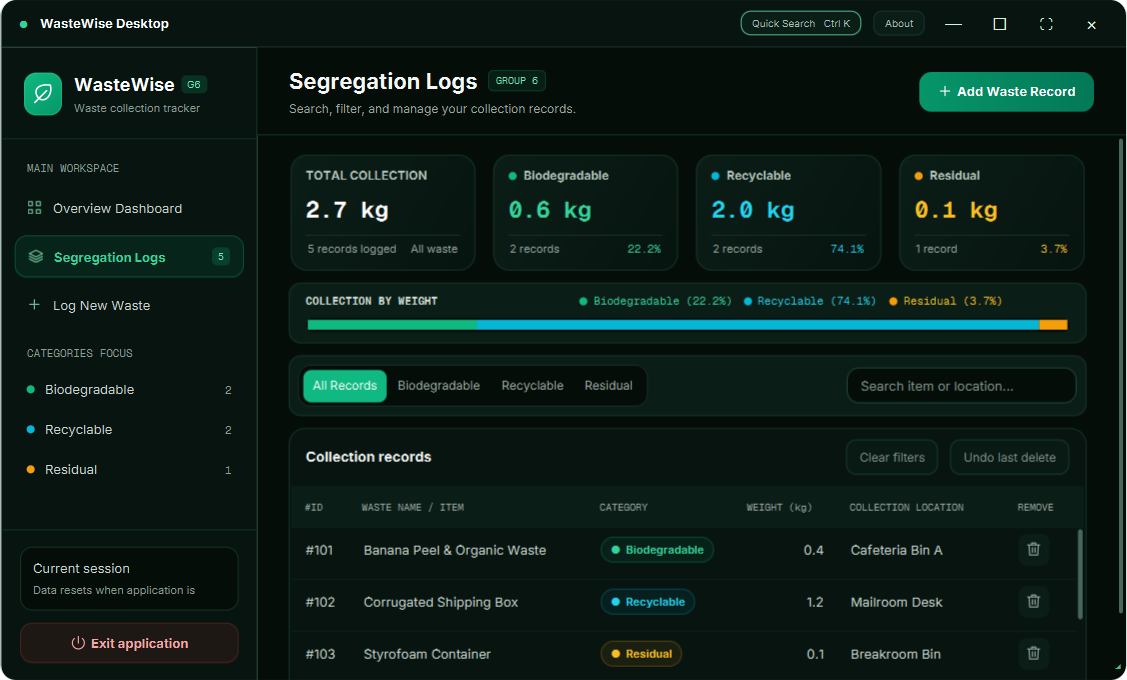
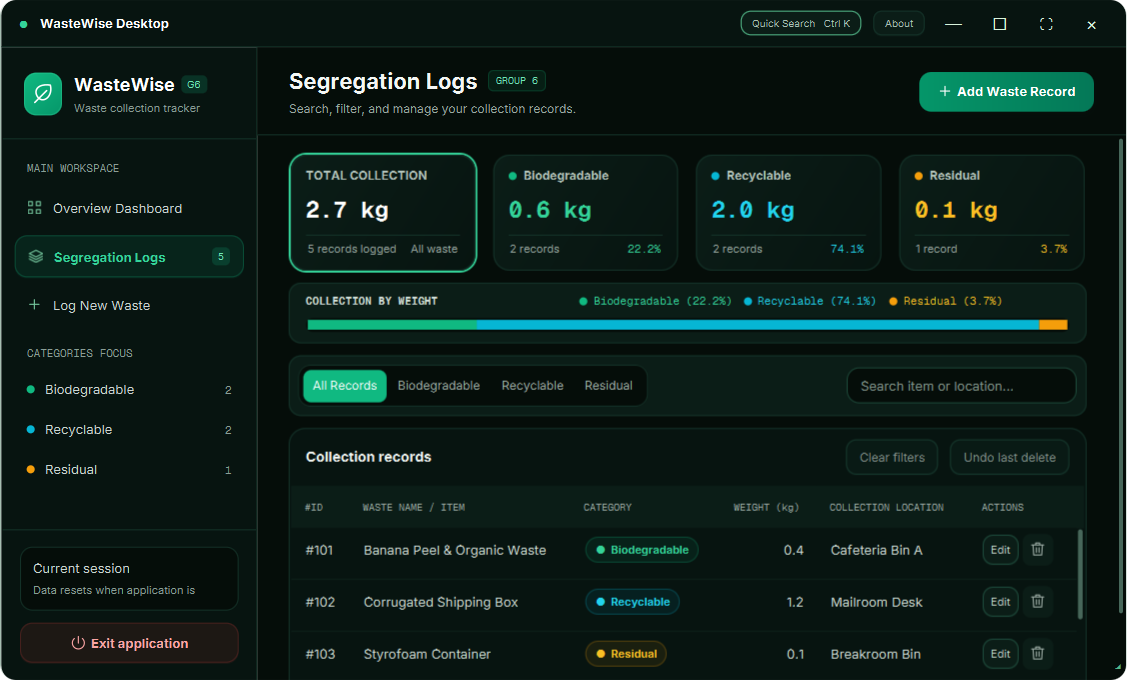
improved the whole interface

diff --git a/src/main/resources/com/group6/wastewise/theme.css b/src/main/resources/com/group6/wastewise/theme.css
@@ -262,3 +262,10 @@
 .dark-workspace .scroll-bar .thumb { -fx-background-color: #47675a; }
 .category-helper { -fx-font-size: 12px; }
 .about-details .progress-bar > .track { -fx-background-color: #143329; }
+.category-selected { -fx-background-color: #10b98122; -fx-border-color: #34d399; -fx-border-radius: 12; }
+.filter-selected { -fx-border-color: #34d399; -fx-border-width: 2; -fx-padding: 0; }
+.modal-card .invalid-field { -fx-border-color: #fb7185; -fx-border-width: 2; }
+.context-menu { -fx-background-color: #0b1d17; -fx-border-color: #1e4d3d; -fx-background-radius: 8; }
+.context-menu .menu-item .label { -fx-text-fill: #e4eee8; }
+.context-menu .menu-item:focused { -fx-background-color: #1e4d3d; }
+.modal-card .text-field.invalid-field:focused,.modal-card .combo-box.invalid-field:focused { -fx-border-color: #fb7185; }

diff --git a/src/main/java/com/group6/wastewise/WasteWiseApp.java b/src/main/java/com/group6/wastewise/WasteWiseApp.java
@@ -66,6 +66,10 @@ public class WasteWiseApp extends Application {
     private Button logsNav;
     private boolean showingLogs;
     private Category selectedCategory;
+    private String lastLocation="";
+    private boolean draggingWindow;
+    private final Map<Category,Button> categoryNavs=new HashMap<>();
+    private final Button emptyAction=button("Add your first record","primary",this::openAddModal);
     private Stage stage;
     private StackPane overlay;
     private Node focusBeforeModal;
@@ -156,7 +160,7 @@ public class WasteWiseApp extends Application {
 
     private HBox titleBar() {
         HBox bar = row(12, label("●", "green-text"), label("WasteWise Desktop", "title-brand"));
-        bar.getStyleClass().add("titlebar");
+        bar.getStyleClass().add("titlebar"); bar.setId("window-drag-area"); bar.setCursor(Cursor.MOVE);
         bar.getChildren().add(spacer());
         bar.getChildren().add(button("Quick Search   Ctrl K", "title-search", this::focusSearch));
         Button about = button("About", "title-search", this::openAboutModal); about.setId("about-button");
@@ -169,8 +173,9 @@ public class WasteWiseApp extends Application {
         full.setTooltip(new Tooltip("Full screen / exit full screen (F11)")); close.setTooltip(new Tooltip("Close application"));
         minimize.setAccessibleText("Minimize"); maximizeControl.setAccessibleText("Maximize or restore"); full.setAccessibleText("Toggle full screen"); close.setAccessibleText("Close");
         bar.getChildren().addAll(minimize,maximizeControl,full,close);
-        bar.setOnMousePressed(e -> { if (titleControl(e.getTarget())) return; dragX = e.getScreenX() - stage.getX(); dragY = e.getScreenY() - stage.getY(); });
-        bar.setOnMouseDragged(e -> { if (!titleControl(e.getTarget()) && !expanded && !stage.isFullScreen()) { stage.setX(e.getScreenX() - dragX); stage.setY(e.getScreenY() - dragY); } });
+        bar.setOnMousePressed(e -> { draggingWindow=!titleControl(e.getTarget()) && e.getButton()==MouseButton.PRIMARY && !expanded && !stage.isFullScreen(); if(!draggingWindow) return; dragX = e.getScreenX() - stage.getX(); dragY = e.getScreenY() - stage.getY(); });
+        bar.setOnMouseDragged(e -> { if (draggingWindow && !expanded && !stage.isFullScreen()) { stage.setX(e.getScreenX() - dragX); stage.setY(e.getScreenY() - dragY); } });
+        bar.setOnMouseReleased(e -> draggingWindow=false);
         bar.setOnMouseClicked(e -> { if (e.getClickCount() == 2 && !titleControl(e.getTarget())) toggleMaximize(); });
         return bar;
     }
@@ -192,7 +197,7 @@ public class WasteWiseApp extends Application {
             Label count = label("0", "side-muted mono"); counts.put(c, count);
             HBox graphic = row(10, dot(c), label(c.toString(), "side-label"), spacer(), count);
             Button b = button("", "category-nav", () -> { showView(true); search.clear(); setFilter(c); }); b.setGraphic(graphic); b.setMaxWidth(Double.MAX_VALUE); graphic.setPrefWidth(190);
-            categories.getChildren().add(b);
+            categoryNavs.put(c,b); categories.getChildren().add(b);
         }
         VBox note = column(7, row(8, label("Current session", "side-label")), label("Data resets when application is\nclosed or exited.", "side-muted")); note.getStyleClass().add("runtime-note");
         Button exit = button("Exit application", "exit-button", this::openExitModal); exit.setGraphic(icon("power", "#fca5a5", 16)); exit.setMaxWidth(Double.MAX_VALUE);
@@ -222,7 +227,7 @@ public class WasteWiseApp extends Application {
         pageSubtitle.setText(logs ? "Search, filter, and manage your collection records." : "Your collection at a glance. Every category, every kilogram.");
         overviewNav.getStyleClass().remove("nav-active"); logsNav.getStyleClass().remove("nav-active");
         (logs ? logsNav : overviewNav).getStyleClass().add("nav-active");
-        if (!logs) scroll.setVvalue(0);
+        if (!logs) scroll.setVvalue(0); updateFilterStyles();
     }
     private VBox recentActivity() {
         Button all = button("View all records  →", "quiet", () -> { clearFilters(); showView(true); }); all.setId("view-all-records");
@@ -350,10 +355,11 @@ public class WasteWiseApp extends Application {
         clearFilters.setId("clear-filters");
         HBox tableHeading = row(12,label("Collection records","section-title"),spacer(),clearFilters,undo); tableHeading.getStyleClass().add("records-heading");
         table.setId("waste-table"); table.setColumnResizePolicy(TableView.CONSTRAINED_RESIZE_POLICY_FLEX_LAST_COLUMN); table.setFixedCellSize(52); table.setMinHeight(200); table.setPrefHeight(200); VBox.setVgrow(table,Priority.ALWAYS);
-        TableColumn<Waste,String> id = textColumn("#ID", w -> "#" + w.getId(), 65); id.setMaxWidth(80);
+        TableColumn<Waste,String> id = textColumn("#ID", w -> "#" + w.getId(), 65); id.setMaxWidth(80); id.setMinWidth(58);
         id.setComparator(Comparator.comparingInt(value -> Integer.parseInt(value.substring(1))));
         TableColumn<Waste,String> name = textColumn("WASTE NAME / ITEM", Waste::getWasteName, 245);
         TableColumn<Waste,String> category = textColumn("CATEGORY", w -> w.getCategory().toString(), 155);
+        category.setMinWidth(150);
         category.setCellFactory(c -> new TableCell<>() {
             @Override protected void updateItem(String value, boolean empty) {
                 super.updateItem(value, empty); setText(null); setGraphic(null);
@@ -369,14 +375,15 @@ public class WasteWiseApp extends Application {
             @Override protected void updateItem(Double value, boolean empty) { super.updateItem(value,empty); setText(empty || value == null ? null : format(value)); setTooltip(empty || value == null ? null : new Tooltip(value + " kg")); }
         });
         TableColumn<Waste,String> location = textColumn("COLLECTION LOCATION", Waste::getLocation, 175);
-        TableColumn<Waste,Void> actions = new TableColumn<>("REMOVE"); actions.setMinWidth(72); actions.setPrefWidth(75); actions.setMaxWidth(85); actions.setSortable(false);
+        TableColumn<Waste,Void> actions = new TableColumn<>("ACTIONS"); actions.setMinWidth(108); actions.setPrefWidth(108); actions.setMaxWidth(108); actions.setSortable(false);
         actions.setCellFactory(c -> new TableCell<>() {
+            private final Button edit=button("Edit","quiet",()->{ Waste w=getTableRow().getItem(); if(w!=null) openRecordModal(w); });
             private final Button remove = button("", "delete-button", () -> { Waste w = getTableRow().getItem(); if (w != null) delete(w); });
-            { remove.setGraphic(icon("trash", "#9baaa3", 16)); remove.setTooltip(new Tooltip("Remove record")); remove.setAccessibleText("Remove record"); }
-            @Override protected void updateItem(Void value, boolean empty) { super.updateItem(value, empty); setGraphic(empty ? null : remove); setAlignment(Pos.CENTER); }
+            { edit.setStyle("-fx-padding: 7 5; -fx-font-size: 11px; -fx-min-width: 36;"); edit.setTooltip(new Tooltip("Edit record")); remove.setGraphic(icon("trash", "#9baaa3", 16)); remove.setTooltip(new Tooltip("Remove record")); remove.setAccessibleText("Remove record"); }
+            @Override protected void updateItem(Void value, boolean empty) { super.updateItem(value, empty); setGraphic(empty ? null : row(4,edit,remove)); setAlignment(Pos.CENTER); }
         });
         table.getColumns().addAll(id, name, category, weight, location, actions);
-        VBox empty = column(10, icon("layers","#40916c",28),emptyTitle, emptyCopy, button("Log New Waste Item", "primary", this::openAddModal)); empty.setAlignment(Pos.CENTER); empty.setPadding(new Insets(24)); table.setPlaceholder(empty);
+        VBox empty = column(10, icon("layers","#40916c",28),emptyTitle, emptyCopy, emptyAction); empty.setAlignment(Pos.CENTER); empty.setPadding(new Insets(24)); table.setPlaceholder(empty);
         table.setOnKeyPressed(e -> { if (e.getCode() == KeyCode.DELETE && table.getSelectionModel().getSelectedItem() != null) delete(table.getSelectionModel().getSelectedItem()); });
         undo.setId("undo-button");
         HBox foot = row(10, footer, spacer(),label("Visible records weight", "muted"),visibleWeight); foot.getStyleClass().add("ledger-footer");
@@ -396,7 +403,19 @@ public class WasteWiseApp extends Application {
     private ToggleButton filter(String text, Category category, ToggleGroup group) {
         ToggleButton b = new ToggleButton(text); b.getStyleClass().add("filter"); b.setToggleGroup(group); b.setOnAction(e -> setFilter(category)); filterButtons.put(category, b); return b;
     }
-    private void setFilter(Category category) { selectedCategory = category; filterButtons.get(category).setSelected(true); refreshTable(); }
+    private void setFilter(Category category) { selectedCategory = category; filterButtons.get(category).setSelected(true); refreshTable(); updateFilterStyles(); }
+    private void updateFilterStyles() {
+        for(var entry:categoryNavs.entrySet()) {
+            entry.getValue().getStyleClass().remove("category-selected");
+            if(showingLogs && selectedCategory==entry.getKey()) entry.getValue().getStyleClass().add("category-selected");
+        }
+        for(String prefix:List.of("logs-","overview-")) for(Category c:Category.values()) {
+            Node card=(prefix.equals("logs-")?logsPage:body).lookup("#"+prefix+c.style());
+            if(card!=null) { card.getStyleClass().remove("filter-selected"); if(showingLogs && selectedCategory==c) card.getStyleClass().add("filter-selected"); }
+        }
+        Node all=logsPage.lookup("#logs-all"); all.getStyleClass().remove("filter-selected");
+        if(selectedCategory==null) all.getStyleClass().add("filter-selected");
+    }
     private void focusSearch() { showView(true); logsScroll.setVvalue(0); Platform.runLater(search::requestFocus); }
     private void clearFilters() { search.clear(); setFilter(null); }
     private void refreshTable() {
@@ -410,6 +429,7 @@ public class WasteWiseApp extends Application {
         boolean emptySession = tracker.viewWaste().isEmpty();
         emptyTitle.setText(emptySession ? "No waste records yet" : "No matching records");
         emptyCopy.setText(emptySession ? "Add your first waste item to start tracking." : "Try another search or clear the filters above.");
+        emptyAction.setText(emptySession ? "Add your first record" : "Clear filters"); emptyAction.setOnAction(e -> { if(emptySession) openAddModal(); else clearFilters(); });
         undo.setDisable(!tracker.canUndo());
     }
     private void refresh() {
@@ -436,15 +456,25 @@ public class WasteWiseApp extends Application {
         Runtime r = Runtime.getRuntime(); long used = r.totalMemory() - r.freeMemory();
         heapText.setText(String.format(Locale.US, "%.1f MB", used / 1048576.0)); heapBar.setProgress((double) used / r.maxMemory());
     }
-    private void delete(Waste w) { if (tracker.removeWaste(w.getId())) { refresh(); toast("Record Deleted", "Removed \"" + w.getWasteName() + "\". Use Undo last delete to restore."); } }
+    private void delete(Waste w) { if (tracker.removeWaste(w.getId())) { refresh(); toast("Record deleted", "Removed \"" + w.getWasteName() + "\". Use Undo last delete to restore."); } }
     private void undoDelete() { if (tracker.undoLastDelete()) { refresh(); toast("Restored", "Record restored to your collection."); } }
 
-    private void openAddModal() {
+    private void openAddModal() { openRecordModal(null); }
+    private void openRecordModal(Waste editing) {
         if (overlay != null) return;
         TextField name = new TextField(); name.setPromptText("e.g., Apple Core, Cardboard Sheet"); name.setId("input-name");
         ComboBox<Category> category = new ComboBox<>(FXCollections.observableArrayList(Category.values())); category.setPromptText("Choose category..."); category.setMaxWidth(Double.MAX_VALUE); category.setId("input-category");
         TextField weight = new TextField(); weight.setPromptText("0.5"); weight.setId("input-weight");
-        TextField location = new TextField(); location.setPromptText("Cafeteria Bin A"); location.setId("input-location");
+        TextField location = new TextField(); location.setPromptText("Type a location..."); location.setTooltip(new Tooltip("Type to see locations already used this session.")); location.setId("input-location"); location.setText(lastLocation);
+        ContextMenu suggestions=new ContextMenu();
+        location.textProperty().addListener((o,a,b)->{
+            suggestions.getItems().clear();
+            tracker.viewWaste().stream().map(Waste::getLocation).distinct().filter(v->v.toLowerCase(Locale.ROOT).contains(b.toLowerCase(Locale.ROOT)) && !v.equals(b)).limit(6).forEach(v->{
+                MenuItem item=new MenuItem(v); item.setOnAction(e->{ location.setText(v); suggestions.hide(); }); suggestions.getItems().add(item);
+            });
+            if(location.isFocused() && !suggestions.getItems().isEmpty()) suggestions.show(location,Side.BOTTOM,0,0); else suggestions.hide();
+        });
+        location.focusedProperty().addListener((o,a,b)->{ if(!b) suggestions.hide(); });
         Label helper = label("Choose a category to see example items.", "category-helper"); helper.setWrapText(true); helper.setMaxWidth(Double.MAX_VALUE); helper.setId("category-helper");
         category.valueProperty().addListener((o,a,c) -> helper.setText(c == null ? "Choose a category to see example items." : switch(c) {
             case BIODEGRADABLE -> "Examples: fruit peels, food scraps, leaves and garden waste.";
@@ -453,16 +483,35 @@ public class WasteWiseApp extends Application {
         }));
         Label error = label("", "validation-error"); error.setId("form-error"); error.setWrapText(true);
         error.managedProperty().bind(error.textProperty().isNotEmpty()); error.visibleProperty().bind(error.managedProperty());
-        VBox left = field("WEIGHT (kg)", weight), right = field("LOCATION / BIN", location); HBox.setHgrow(left,Priority.ALWAYS); HBox.setHgrow(right,Priority.ALWAYS);
-        Button save = button("Add Waste Record", "primary", () -> {
+        VBox left = field("WEIGHT (kg)", weight), right = field("LOCATION / BIN", location); HBox.setHgrow(left,Priority.ALWAYS); HBox.setHgrow(right,Priority.ALWAYS); left.setMinWidth(0); right.setMinWidth(0); left.setPrefWidth(220); right.setPrefWidth(220);
+        Map<Control,Label> errors=new LinkedHashMap<>();
+        for(Control input:List.of(name,category,weight,location)) {
+            Label message=label("","validation-error"); message.setWrapText(true);
+            message.managedProperty().bind(message.textProperty().isNotEmpty()); message.visibleProperty().bind(message.managedProperty()); errors.put(input,message);
+        }
+        java.util.function.Consumer<Boolean> submit=again->{
+            errors.forEach((control,message)->{ message.setText(""); control.getStyleClass().remove("invalid-field"); }); error.setText("");
+            if(name.getText().isBlank() || name.getText().strip().length()>120) errors.get(name).setText("Enter an item name, up to 120 characters.");
+            if(category.getValue()==null) errors.get(category).setText("Select a category.");
+            double amount=0; try { amount=Double.parseDouble(weight.getText().strip()); } catch(NumberFormatException ignored) { }
+            if(!Double.isFinite(amount) || amount<=0 || amount>1_000_000) errors.get(weight).setText("Use a number from above 0 to 1,000,000 kg.");
+            if(location.getText().isBlank() || location.getText().strip().length()>120) errors.get(location).setText("Enter a location, up to 120 characters.");
+            Control first=null;
+            for(var entry:errors.entrySet()) if(!entry.getValue().getText().isEmpty()) { entry.getKey().getStyleClass().add("invalid-field"); if(first==null) first=entry.getKey(); }
+            if(first!=null) { error.setText("Please correct the highlighted fields."); first.requestFocus(); return; }
             try {
-                double value;
-                try { value = Double.parseDouble(weight.getText().strip()); } catch (NumberFormatException ex) { throw new IllegalArgumentException("Enter a valid numeric weight in kilograms."); }
-                Waste added = tracker.addWaste(name.getText(), category.getValue(), value, location.getText());
-                refresh(); closeModal(); toast("Record Added", "Logged \"" + added.getWasteName() + "\" successfully.");
-            } catch (IllegalArgumentException ex) { error.setText(ex.getMessage()); }
-        }); save.setId("save-record"); save.setDefaultButton(true);
-        VBox card = column(18, modalHeader("Add Waste Item", "Record a collection for this session", "plus"), field("WASTE ITEM NAME", name), column(8,field("WASTE CATEGORY", category),helper), new HBox(12,left,right), error, row(10, spacer(), button("Cancel", "quiet", this::closeModal), save));
+                Waste saved=editing==null ? tracker.addWaste(name.getText(),category.getValue(),amount,location.getText()) : tracker.updateWaste(editing.getId(),name.getText(),category.getValue(),amount,location.getText());
+                lastLocation=saved.getLocation(); suggestions.hide(); refresh(); closeModal();
+                if(again) openAddModal();
+                toast(editing==null ? "Record added" : "Record updated",saved.getWasteName());
+            } catch(IllegalArgumentException ex) { error.setText(ex.getMessage()); }
+        };
+        Button save=button(editing==null ? "Add record" : "Save changes","primary",()->submit.accept(false)); save.setId("save-record"); save.setDefaultButton(true);
+        Button another=button("Save & add another","quiet",()->submit.accept(true)); another.setId("save-another");
+        HBox actions=row(8,spacer(),button("Cancel","quiet",this::closeModal)); if(editing==null) actions.getChildren().add(another); actions.getChildren().add(save);
+        left.getChildren().add(errors.get(weight)); right.getChildren().add(errors.get(location));
+        VBox card=column(12,modalHeader(editing==null ? "Add Waste Item" : "Edit Waste Item",editing==null ? "Record a collection for this session" : "Update record #"+editing.getId(),"plus"),column(4,field("WASTE ITEM NAME",name),errors.get(name)),column(6,field("WASTE CATEGORY",category),errors.get(category),helper),new HBox(12,left,right),error,actions);
+        if(editing!=null) { name.setText(editing.getWasteName()); category.setValue(editing.getCategory()); weight.setText(Double.toString(editing.getWeight())); location.setText(editing.getLocation()); }
         showModal(card); Platform.runLater(name::requestFocus);
     }
     private void openExitModal() {
@@ -482,7 +531,7 @@ public class WasteWiseApp extends Application {
     private VBox field(String caption, Control control) { return column(7, label(caption,"field-label mono"), control); }
     private void showModal(VBox card) {
         focusBeforeModal = root.getScene().getFocusOwner(); shell.setDisable(true); toastArea.setDisable(true);
-        card.getStyleClass().add("modal-card"); card.setMaxSize(490,Region.USE_PREF_SIZE);
+        card.getStyleClass().add("modal-card"); card.setMaxSize(520,Region.USE_PREF_SIZE);
         overlay = new StackPane(card); overlay.getStyleClass().add("modal-overlay"); overlay.setId("modal-overlay");
         root.getChildren().add(overlay);
         FadeTransition fade = new FadeTransition(Duration.millis(160),overlay); fade.setFromValue(0); fade.setToValue(1); fade.play();
@@ -497,11 +546,16 @@ public class WasteWiseApp extends Application {
     private void closeModal() { if (overlay != null) { root.getChildren().remove(overlay); overlay = null; shell.setDisable(false); toastArea.setDisable(false); if (focusBeforeModal != null) focusBeforeModal.requestFocus(); } }
     private void toast(String title, String message) {
         Label copy = label(message,"muted"); copy.setWrapText(true);
-        VBox notice = column(5,label(title,"section-title"),copy); notice.getStyleClass().add("toast"); toastArea.getChildren().setAll(notice);
+        VBox notice = column(5,label(title,"section-title"),copy); notice.getStyleClass().add("toast");
+        if(title.equals("Record deleted")) { Button action=button("Undo","primary",this::undoDelete); action.setId("toast-undo"); notice.getChildren().add(action); } toastArea.getChildren().setAll(notice);
         PauseTransition timeout = new PauseTransition(Duration.seconds(5)); timeout.setOnFinished(e -> toastArea.getChildren().remove(notice)); timeout.play();
     }
     private Button navButton(String text, String glyph, Runnable action) { Button b = button("","nav-button", action); HBox content = row(10,icon(glyph,"#74c69d",16),label(text,"side-label")); content.setPrefWidth(190); b.setGraphic(content); b.setMaxWidth(Double.MAX_VALUE); return b; }
-    private static String format(double n) { return String.format(Locale.US, n != 0 && Math.abs(n) < .1 ? "%.3f" : "%.1f",n); }
+    private static String format(double n) {
+        if(n!=0 && Math.abs(n)<.001) return String.format(Locale.US,"%.2e",n);
+        var value=java.math.BigDecimal.valueOf(n).setScale(3,java.math.RoundingMode.HALF_UP).stripTrailingZeros();
+        return value.setScale(Math.max(1,value.scale())).toPlainString();
+    }
     private static Label label(String text, String classes) { Label l = new Label(text); l.getStyleClass().addAll(classes.split(" ")); return l; }
     private static Button button(String text,String classes,Runnable action) { Button b = new Button(text); b.getStyleClass().addAll(classes.split(" ")); b.setOnAction(e -> action.run()); b.setCursor(Cursor.HAND); return b; }
     private static HBox row(double gap, Node... nodes) { HBox box = new HBox(gap,nodes); box.setAlignment(Pos.CENTER_LEFT); return box; }
@@ -528,6 +582,11 @@ public class WasteWiseApp extends Application {
         try {
             Path dir = Path.of(System.getProperty("wastewise.snapshots", "work")); Files.createDirectories(dir);
             double initialWidth=stage.getWidth(), initialHeight=stage.getHeight();
+            HBox title=(HBox)root.lookup("#window-drag-area"); double oldX=stage.getX(),oldY=stage.getY();
+            title.getOnMousePressed().handle(dragEvent(MouseEvent.MOUSE_PRESSED,oldX+200,oldY+20));
+            title.getOnMouseDragged().handle(dragEvent(MouseEvent.MOUSE_DRAGGED,oldX+230,oldY+40));
+            require(Math.abs(stage.getX()-oldX-30)<2 && Math.abs(stage.getY()-oldY-20)<2,"Window title drag moves stage");
+            title.getOnMouseReleased().handle(dragEvent(MouseEvent.MOUSE_RELEASED,oldX+230,oldY+40)); stage.setX(oldX); stage.setY(oldY);
             maximizeControl.fire(); require(expanded && Math.abs(stage.getWidth()-screenBounds().getWidth())<2,"Maximize fills work area");
             maximizeControl.fire(); require(!expanded && Math.abs(stage.getWidth()-initialWidth)<2 && Math.abs(stage.getHeight()-initialHeight)<2,"Restore returns to windowed size");
             snapshot(dir.resolve("dashboard.png"));
@@ -548,7 +607,7 @@ public class WasteWiseApp extends Application {
             logsNav.fire(); require(table.getItems().size()==1,"Records view restores search"); clearFilters.fire(); require(table.getItems().size()==5,"Clear filters");
             setFilter(Category.RECYCLABLE); require(table.getItems().size()==2,"Category filter"); require(visibleWeight.getText().equals("2.0 kg") && logsTotal.getText().equals("2.7 kg"),"Global and visible totals independent");
             snapshot(dir.resolve("filtered-logs.png")); setFilter(null);
-            search.setText("no matching item"); require(table.getItems().isEmpty() && visibleWeight.getText().equals("0.0 kg"),"No matches"); snapshot(dir.resolve("no-matches.png")); clearFilters.fire();
+            search.setText("no matching item"); require(table.getItems().isEmpty() && visibleWeight.getText().equals("0.0 kg"),"No matches"); snapshot(dir.resolve("no-matches.png")); require(emptyAction.getText().equals("Clear filters"),"No matches recovery action"); emptyAction.fire(); require(table.getItems().size()==5,"Empty state clears filters");
             TableColumn<Waste,?> weightColumn = table.getColumns().get(3);
             weightColumn.setSortType(TableColumn.SortType.DESCENDING); table.getSortOrder().setAll(weightColumn); table.sort();
             Waste heaviest = table.getItems().get(0); require(heaviest.getWeight()==1.2,"Weight sorts numerically");
@@ -563,6 +622,20 @@ public class WasteWiseApp extends Application {
             ((Button)root.lookup("#save-record")).fire(); require(tracker.viewWaste().size()==5 && !((Label)root.lookup("#form-error")).getText().isEmpty(),"Invalid weight rejected");
             ((TextField)root.lookup("#input-weight")).setText("2"); ((Button)root.lookup("#save-record")).fire(); require(tracker.viewWaste().size()==6 && overlay==null,"Add via form");
             Waste last = tracker.viewWaste().get(5); delete(last); require(tracker.viewWaste().size()==5,"Delete"); undo.fire(); require(tracker.viewWaste().size()==6,"Undo");
+            openRecordModal(tracker.viewWaste().get(5));
+            ((TextField)root.lookup("#input-name")).setText("Edited record");
+            ((ComboBox<Category>)root.lookup("#input-category")).setValue(Category.RESIDUAL);
+            ((Button)root.lookup("#save-record")).fire();
+            require(tracker.viewWaste().size()==6 && tracker.viewWaste().get(5).getId()==last.getId() && tracker.viewWaste().get(5).getCategory()==Category.RESIDUAL,"Edit via form preserves identity");
+            openAddModal(); require(((TextField)root.lookup("#input-location")).getText().equals("Test bin"),"Location retained");
+            ((TextField)root.lookup("#input-name")).setText("Batch item");
+            ((ComboBox<Category>)root.lookup("#input-category")).setValue(Category.RECYCLABLE);
+            ((TextField)root.lookup("#input-weight")).setText("0.00001");
+            ((Button)root.lookup("#save-another")).fire();
+            require(tracker.viewWaste().size()==7 && overlay!=null && ((TextField)root.lookup("#input-name")).getText().isEmpty() && ((TextField)root.lookup("#input-location")).getText().equals("Test bin"),"Save and add another resets item, retains location"); closeModal();
+            require(!format(.00001).equals("0.0") && format(.125).equals("0.125"),"Small weights remain visible");
+            Waste batch=tracker.viewWaste().get(6); delete(batch); ((Button)root.lookup("#toast-undo")).fire(); require(tracker.viewWaste().size()==7,"Toast undo restores record");
+            setFilter(Category.RESIDUAL); require(categoryNavs.get(Category.RESIDUAL).getStyleClass().contains("category-selected"),"Sidebar reflects category filter"); clearFilters();
             tracker.clear(); refresh(); toastArea.getChildren().clear(); snapshot(dir.resolve("empty.png")); require(table.getItems().isEmpty() && tracker.calculateTotalWeight()==0,"Empty state");
             require(statShares.values().stream().allMatch(l -> l.getText().equals("0.0%")),"Empty distribution resets");
             openExitModal(); root.applyCss(); root.layout(); snapshot(dir.resolve("exit-dialog.png")); closeModal(); require(stage.isShowing(),"Exit cancellation");
@@ -580,6 +653,9 @@ public class WasteWiseApp extends Application {
                 } catch (Throwable e) { e.printStackTrace(); Platform.exit(); System.exit(1); }
             }); resizeWait.play();
         } catch(Throwable e) { e.printStackTrace(); Platform.exit(); System.exit(1); }
+    }
+    private MouseEvent dragEvent(javafx.event.EventType<MouseEvent> type,double x,double y) {
+        return new MouseEvent(type,200,20,x,y,MouseButton.PRIMARY,1,false,false,false,false,true,false,false,false,false,true,null);
     }
     private void testMinimumWindow(Path dir) {
         stage.setHeight(640);

diff --git a/src/test/java/com/group6/wastewise/model/WasteTrackerTest.java b/src/test/java/com/group6/wastewise/model/WasteTrackerTest.java
@@ -24,6 +24,16 @@ public final class WasteTrackerTest {
         t.removeWaste(bio.getId()); t.clear(); check(!t.undoLastDelete(),"Clear invalidates undo"); eq(t.calculateTotalWeight(),0);
         Waste tiny=t.addWaste("Small item",Category.RECYCLABLE,.001,"Lab"); eq(tiny.getWeight(),.001);
         t.clear(); t.loadDemoRecords(); eq(t.calculateTotalWeight(),2.7); t.loadDemoRecords(); check(t.viewWaste().size()==5,"Demo does not duplicate");
+        WasteTracker edits=new WasteTracker();
+        Waste original=edits.addWaste("Paper",Category.RECYCLABLE,1,"Office");
+        Waste changed=edits.updateWaste(original.getId(),"Food",Category.BIODEGRADABLE,2,"Kitchen");
+        check(changed.getId()==original.getId() && edits.viewWaste().size()==1,"Edit preserves ID and count");
+        check(changed instanceof BiodegradableWaste,"Edit changes category subclass"); eq(edits.calculateTotalWeight(),2);
+        reject(()->edits.updateWaste(original.getId(),"Invalid",Category.RESIDUAL,-1,"Bin"));
+        check(edits.viewWaste().get(0)==changed,"Invalid edit is atomic");
+        reject(()->edits.updateWaste(999,"Missing",Category.RESIDUAL,1,"Bin"));
+        edits.removeWaste(changed.getId()); edits.undoLastDelete(); check(edits.viewWaste().get(0)==changed,"Undo restores edited record");
+        check(edits.addWaste("Next",Category.RESIDUAL,1,"Bin").getId()==original.getId()+1,"Edit does not consume next ID");
         System.out.println("PASS: " + checks + " model checks");
     }
     private static void check(boolean value,String message) { checks++; if(!value) throw new AssertionError(message); }

diff --git a/src/main/java/com/group6/wastewise/model/WasteTracker.java b/src/main/java/com/group6/wastewise/model/WasteTracker.java
@@ -20,6 +20,18 @@ public final class WasteTracker {
         };
         wasteList.add(waste); nextId++; return waste;
     }
+    public Waste updateWaste(int id, String name, Category category, double weight, String location) {
+        if(category==null) throw new IllegalArgumentException("Choose a waste category.");
+        for(int i=0;i<wasteList.size();i++) if(wasteList.get(i).getId()==id) {
+            Waste updated=switch(category) {
+                case BIODEGRADABLE -> new BiodegradableWaste(id,name,weight,location);
+                case RECYCLABLE -> new RecyclableWaste(id,name,weight,location);
+                case RESIDUAL -> new ResidualWaste(id,name,weight,location);
+            };
+            wasteList.set(i,updated); return updated;
+        }
+        throw new IllegalArgumentException("This record is no longer available.");
+    }
     public List<Waste> viewWaste() { return List.copyOf(wasteList); }
     public double calculateTotalWeight() { return wasteList.stream().mapToDouble(Waste::getWeight).sum(); }
     public double calculateCategoryWeight(Category category) {

diff --git a/README.md b/README.md
@@ -113,3 +113,13 @@ Verification also checks global distribution percentages, zero-weight resets, dy
 Aligned page heading sizes and spacing while retaining the light overview and dark records workspace. Recyclable colors now match across charts, badges, and labels. Records cards have stable heights, the distribution legend is compact, and the table footer fits at 1120 x 740; shorter windows retain scrolling. Long table values have tooltips, and sort indicators and delete controls have clearer contrast.
 
 The add dialog only reserves space for errors when needed, uses full-width category guidance, and focuses the first input. Quick Search returns to the search area. Dialog close buttons have accessible names. Exit messaging distinguishes an empty session from records that will be lost. Added native UI checks for compact footer visibility, scrolling at 1120 x 640, and validation dialog bounds.
+
+## Record workflow improvements
+
+Each table row has an Edit action. Editing validates all fields before replacing the record, preserving its ID and list position even when its category changes. Invalid edits leave the original record intact. Add and edit forms highlight invalid fields, display correction guidance, and focus the first error.
+
+Save & add another opens a fresh form with the previous location retained. Typing in Location suggests locations used in the current session. The active category is reflected in the sidebar and summary cards. Empty search results offer Clear filters, while an empty collection offers Add your first record. Deletion notifications include Undo; the persistent Undo control remains available after a notification expires.
+
+Weights use up to three decimal places, retaining at least one; amounts below 0.001 kg use scientific notation so positive values never display as zero. Drag any non-button area of the title bar to move the window in windowed mode. The drag remains active until mouse release, even when the pointer crosses a title-bar control.
+
+Verification: 43 model checks, including atomic editing, category changes, preserved IDs, and undo of edited records. Native UI checks also cover editing, batch entry, retained location, category highlighting, empty-search recovery, toast Undo, tiny weight formatting, title-bar drag events, compact layouts, and window controls.
